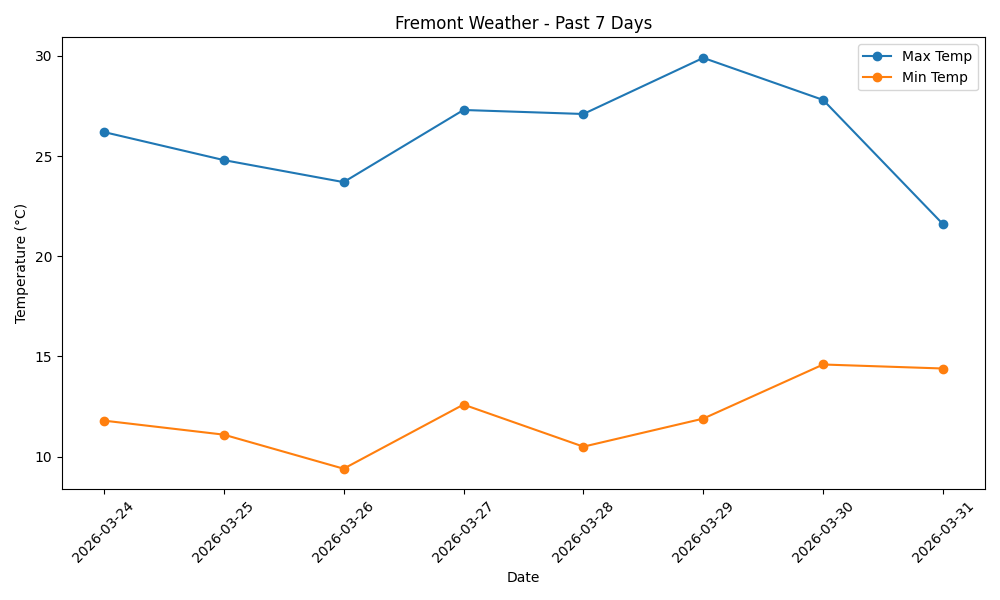
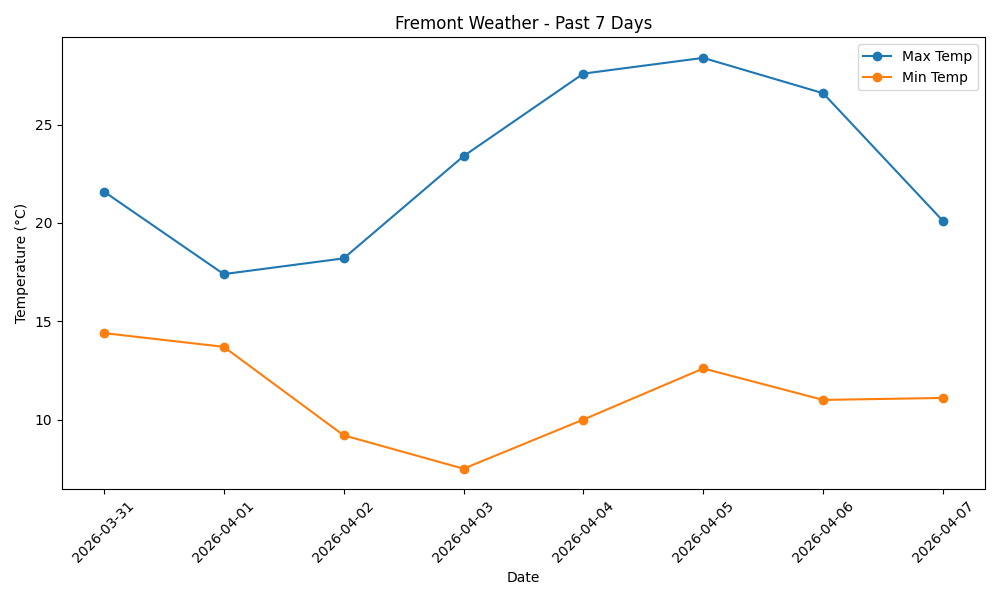
Input and output added

diff --git a/get_data.py b/get_data.py
@@ -25,35 +25,37 @@ data = response.json()
 print(data)
 
 
-#----------------------------------------------------------------
+# ----------------------------------------------------------------
 
 # Extract the daily data
-daily_data = data['daily']
+daily_data = data["daily"]
 
 # Create a DataFrame
-df = pd.DataFrame({
-    'date': daily_data['time'],
-    'max_temp': daily_data['temperature_2m_max'],
-    'min_temp': daily_data['temperature_2m_min']
-})
+df = pd.DataFrame(
+    {
+        "date": daily_data["time"],
+        "max_temp": daily_data["temperature_2m_max"],
+        "min_temp": daily_data["temperature_2m_min"],
+    }
+)
 
 # Convert date strings to datetime
-df['date'] = pd.to_datetime(df['date'])
+df["date"] = pd.to_datetime(df["date"])
 print("====================================")
 
 print(df)
 print("====================================")
-#----------------------------------------------------------------
+# ----------------------------------------------------------------
 
 # Create the plot
 plt.figure(figsize=(10, 6))
-plt.plot(df['date'], df['max_temp'], marker='o', label='Max Temp')
-plt.plot(df['date'], df['min_temp'], marker='o', label='Min Temp')
+plt.plot(df["date"], df["max_temp"], marker="o", label="Max Temp")
+plt.plot(df["date"], df["min_temp"], marker="o", label="Min Temp")
 
 # Add labels and title
-plt.xlabel('Date')
-plt.ylabel('Temperature (°C)')
-plt.title('Fremont Weather - Past 7 Days')
+plt.xlabel("Date")
+plt.ylabel("Temperature (°C)")
+plt.title("Fremont Weather - Past 7 Days")
 plt.legend()
 
 # Rotate x-axis labels for readability
@@ -61,15 +63,14 @@ plt.xticks(rotation=45)
 plt.tight_layout()
 
 # Save the plot
-plt.savefig('weather_chart.png')
+plt.savefig("weather_chart.png")
 plt.show()
 
 
-
 # Create data folder if it doesn't exist
-if not os.path.exists('data'):
-    os.makedirs('data')
+if not os.path.exists("data"):
+    os.makedirs("data")
 
 # Save to CSV
-df.to_csv('data/fremont_weather.csv', index=False)
+df.to_csv("data/fremont_weather.csv", index=False)
 print("Data saved to data/fremont_weather.csv")

diff --git a/sales-analasis/analyser.py b/sales-analasis/analyser.py
@@ -3,24 +3,24 @@ import pandas as pd
 from helper import calculate_total, format_currency
 
 # Read data
-df = pd.read_csv('data/sales.csv')
+df = pd.read_csv("data/sales.csv")
 
 # Calculate total for each row
 totals = []
 for index, row in df.iterrows():
-    total = calculate_total(row['quantity'], row['price'])
+    total = calculate_total(row["quantity"], row["price"])
     totals.append(total)
 
 # Add totals to our data
-df['total'] = totals
+df["total"] = totals
 
 # Display with formatted totals
 print("Sales Data:")
 for index, row in df.iterrows():
-    formatted_total = format_currency(row['total'])
+    formatted_total = format_currency(row["total"])
     print(f"{row['product']}: {formatted_total}")
 
 # Show grand total
-grand_total = df['total'].sum()
+grand_total = df["total"].sum()
 formatted_grand_total = format_currency(grand_total)
 print(f"\nGrand Total: {formatted_grand_total}")

diff --git a/InputAndOutput.py b/InputAndOutput.py
@@ -1,0 +1,29 @@
+name = input("What is your name? ")
+age = input("How old are you? ")
+Fcolor = input("What is your favorite color? ")
+
+try:
+    age = int(age)
+except ValueError:
+    print("Please enter a valid number for age.")
+    age = input("How old are you? ")
+    try:
+        age = int(age)
+    except ValueError:
+        print("Invalid input for age. Setting age to 0.")
+        age = 0
+
+try:
+    name = str(name)
+except ValueError:
+    print("Invalid input for name.")
+    name = "Unknown"
+
+try:
+    Fcolor = str(Fcolor)
+except ValueError:
+    print("Invalid input for favorite color.")
+    Fcolor = "Unknown"
+
+Output = f"Your name is {name}, you are {age} years old, and your favorite color is {Fcolor}."
+print(Output)

diff --git a/sales-analasis/helper.py b/sales-analasis/helper.py
@@ -1,8 +1,7 @@
-# functions
-
 def calculate_total(quantity, price):
     """Calculate total for a single item"""
     return quantity * price
+
 
 def format_currency(amount):
     """Format number as currency"""
